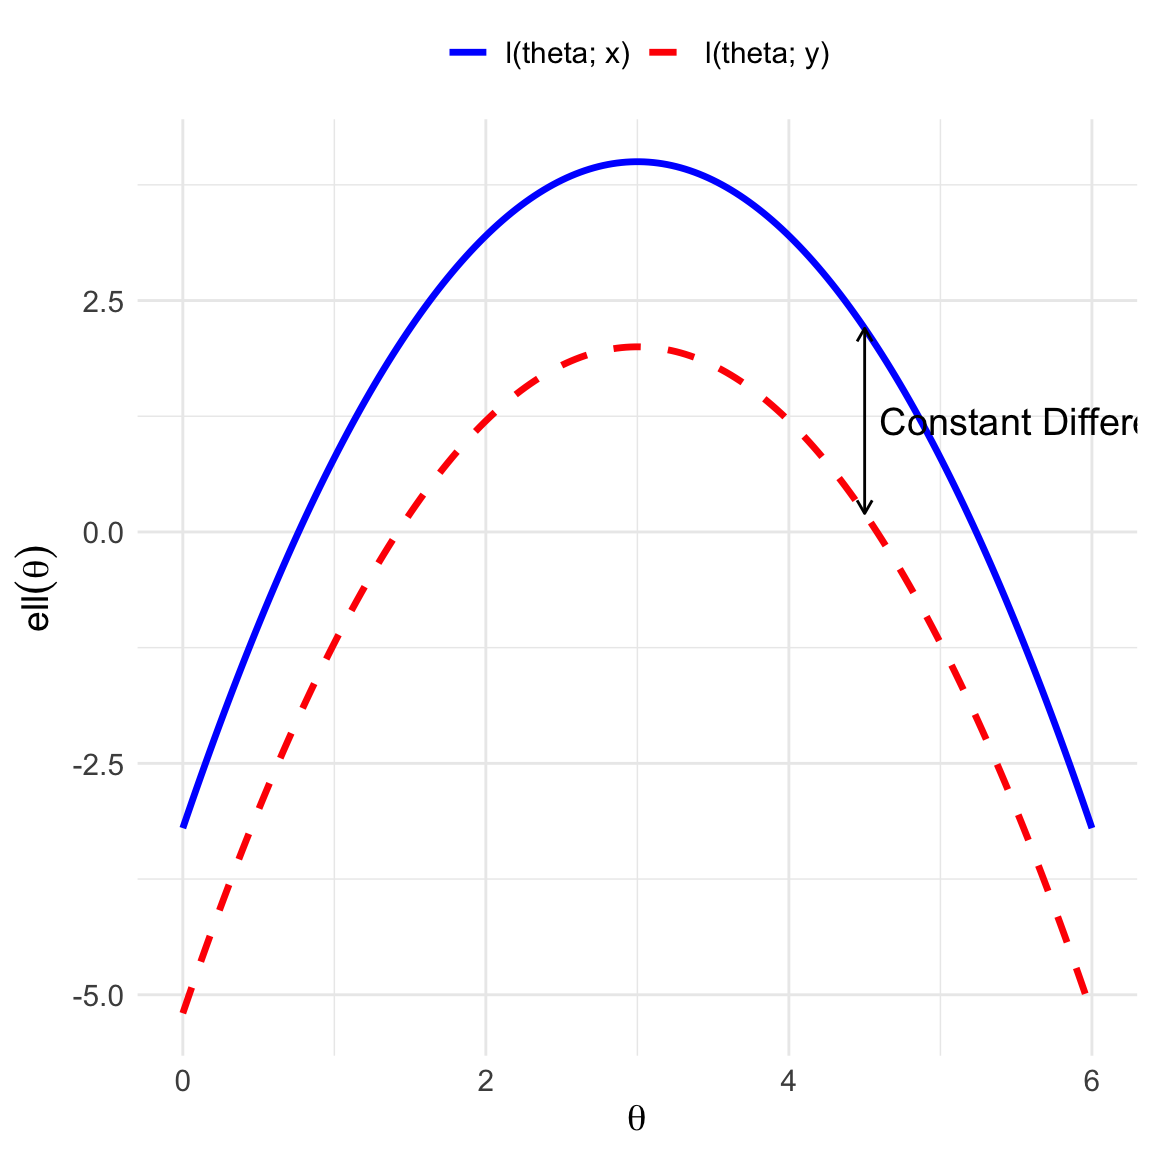
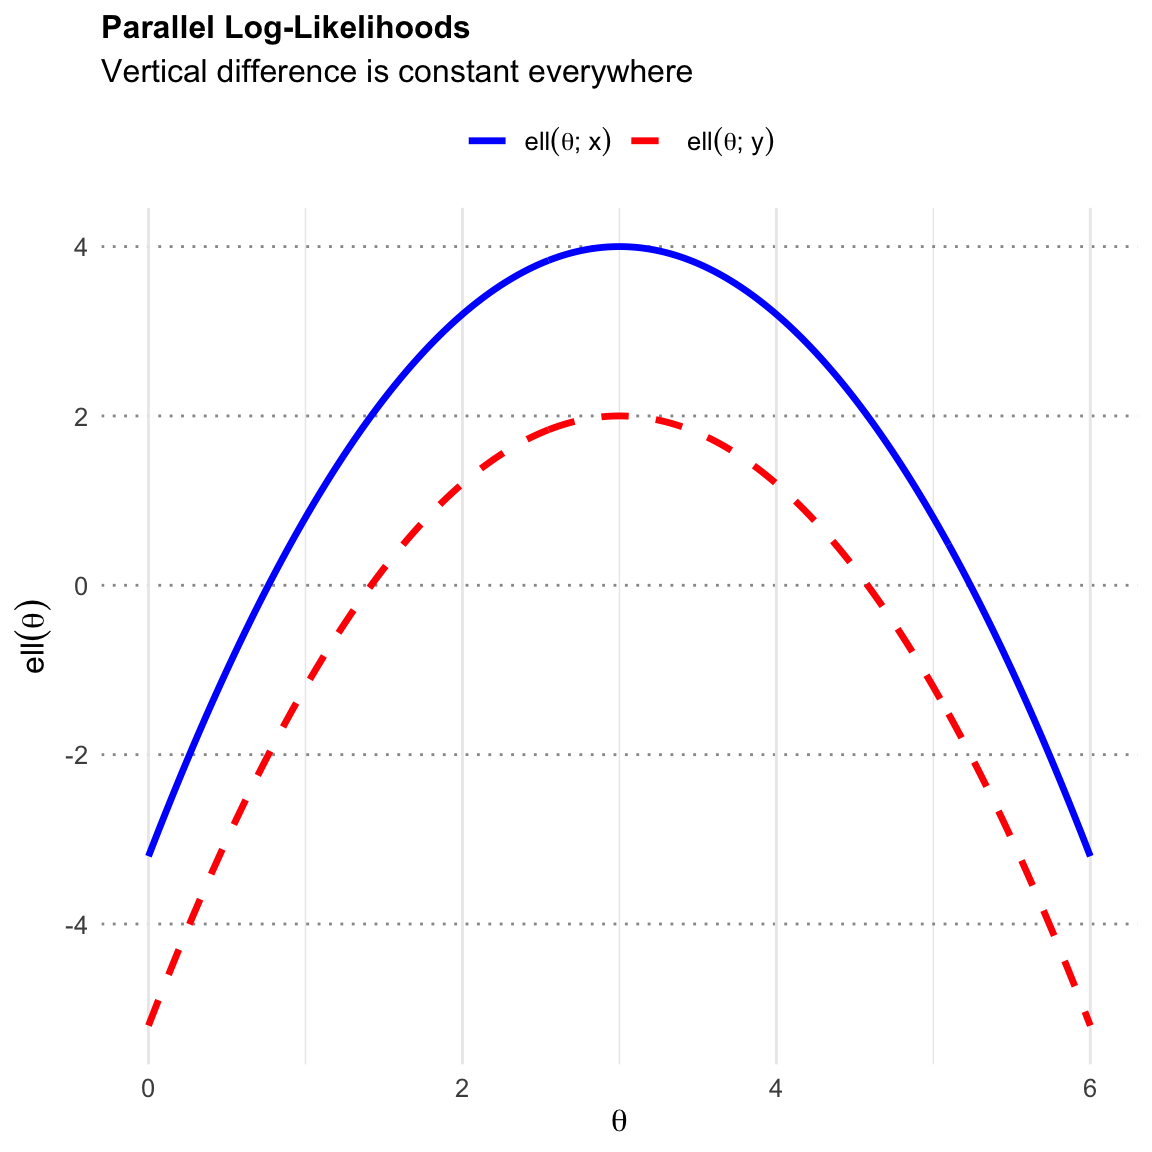
syn2GH from KNW5YYVTFD

diff --git a/teaching/stat850/mathstat/umvue.html b/teaching/stat850/mathstat/umvue.html
@@ -191,9 +191,10 @@ window.Quarto = {
   <ul>
   <li><a href="#sufficient-statistics" id="toc-sufficient-statistics" class="nav-link" data-scroll-target="#sufficient-statistics"><span class="header-section-number">6.1.1</span> Sufficient Statistics</a></li>
   </ul></li>
-  <li><a href="#completeness" id="toc-completeness" class="nav-link" data-scroll-target="#completeness"><span class="header-section-number">6.2</span> Completeness</a></li>
-  <li><a href="#umvue" id="toc-umvue" class="nav-link" data-scroll-target="#umvue"><span class="header-section-number">6.3</span> UMVUE</a></li>
-  <li><a href="#methods-for-finding-umvue" id="toc-methods-for-finding-umvue" class="nav-link" data-scroll-target="#methods-for-finding-umvue"><span class="header-section-number">6.4</span> Methods for Finding UMVUE</a></li>
+  <li><a href="#minimal-sufficient-statistic" id="toc-minimal-sufficient-statistic" class="nav-link" data-scroll-target="#minimal-sufficient-statistic"><span class="header-section-number">6.2</span> Minimal Sufficient Statistic</a></li>
+  <li><a href="#completeness" id="toc-completeness" class="nav-link" data-scroll-target="#completeness"><span class="header-section-number">6.3</span> Completeness</a></li>
+  <li><a href="#umvue" id="toc-umvue" class="nav-link" data-scroll-target="#umvue"><span class="header-section-number">6.4</span> UMVUE</a></li>
+  <li><a href="#methods-for-finding-umvue" id="toc-methods-for-finding-umvue" class="nav-link" data-scroll-target="#methods-for-finding-umvue"><span class="header-section-number">6.5</span> Methods for Finding UMVUE</a></li>
   </ul>
 </nav>
 </nav>
@@ -320,6 +321,10 @@ f(x|p) = p^x (1-p)^{1-x} = (1-p) \exp\left( x \ln\left(\frac{p}{1-p}\right) \rig
 \]</span></p>
 <p>Here, <span class="math inline">\(t(x) = x\)</span>. Therefore, <span class="math inline">\(T(X) = \sum_{i=1}^n X_i\)</span> is sufficient for <span class="math inline">\(p\)</span>.</p>
 </div>
+</section>
+</section>
+<section id="minimal-sufficient-statistic" class="level2" data-number="6.2">
+<h2 data-number="6.2" class="anchored" data-anchor-id="minimal-sufficient-statistic"><span class="header-section-number">6.2</span> Minimal Sufficient Statistic</h2>
 <div id="lem-loglik-equivalence" class="theorem lemma">
 <p><span class="theorem-title"><strong>Lemma 6.1 (Equivalence of Log-Likelihood Conditions)</strong></span> For any pair of data sets <span class="math inline">\(x\)</span> and <span class="math inline">\(y\)</span>, the following three conditions are equivalent descriptions of the relationship between their log-likelihood functions <span class="math inline">\(\ell(\theta; \cdot) = \ln L(\theta; \cdot)\)</span>:</p>
 <ol type="1">
@@ -328,53 +333,57 @@ f(x|p) = p^x (1-p)^{1-x} = (1-p) \exp\left( x \ln\left(\frac{p}{1-p}\right) \rig
 <li><p><strong>Equality of Log-Likelihood Differences:</strong> <span class="math display">\[\ell(\theta_2; x) - \ell(\theta_1; x) = \ell(\theta_2; y) - \ell(\theta_1; y) \quad \text{for all } \theta_1, \theta_2\]</span></p></li>
 </ol>
 </div>
+<div id="thm-mss-loglik" class="theorem">
+<p><span class="theorem-title"><strong>Theorem 6.1 (MSS Condition Theorem)</strong></span> Let <span class="math inline">\(T(X)\)</span> be a <strong>sufficient statistic</strong>. <span class="math inline">\(T(X)\)</span> is a <strong>Minimal Sufficient Statistic (MSS)</strong> if and only if for any pair of data sets <span class="math inline">\(x\)</span> and <span class="math inline">\(y\)</span>: <span class="math display">\[
+\ell(\theta; x) = \ell(\theta; y) + c(x, y) \text{ for all } \theta \implies T(x) = T(y)
+\]</span> where <span class="math inline">\(c(x, y)\)</span> is a constant independent of <span class="math inline">\(\theta\)</span>.</p>
+</div>
 <div class="proof">
-<p><span class="proof-title"><em>Proof</em>. </span><strong>Proof of Lemma</strong></p>
-<ul>
-<li><p><strong><span class="math inline">\((1) \iff (2)\)</span>:</strong> Rearranging (1) gives <span class="math inline">\(\ell(\theta; x) - \ell(\theta; y) = c(x, y)\)</span>. Since <span class="math inline">\(c(x,y)\)</span> does not depend on <span class="math inline">\(\theta\)</span>, the difference is constant in <span class="math inline">\(\theta\)</span>.</p></li>
-<li><p><strong><span class="math inline">\((1) \implies (3)\)</span>:</strong> Substitute <span class="math inline">\(\ell(\theta; x) = \ell(\theta; y) + c\)</span> into the LHS of (3): <span class="math display">\[[\ell(\theta_2; y) + c] - [\ell(\theta_1; y) + c] = \ell(\theta_2; y) - \ell(\theta_1; y)\]</span> This matches the RHS of (3).</p></li>
-<li><p><strong><span class="math inline">\((3) \implies (1)\)</span>:</strong> Fix <span class="math inline">\(\theta_1 = \theta_0\)</span> as a reference point. Rearrange (3): <span class="math display">\[\ell(\theta_2; x) - \ell(\theta_2; y) = \ell(\theta_0; x) - \ell(\theta_0; y)\]</span> Let <span class="math inline">\(c(x, y) = \ell(\theta_0; x) - \ell(\theta_0; y)\)</span>. Since <span class="math inline">\(\theta_0\)</span> is fixed, <span class="math inline">\(c(x, y)\)</span> is constant with respect to the varying <span class="math inline">\(\theta_2\)</span>. Thus, <span class="math inline">\(\ell(\theta; x) - \ell(\theta; y) = c(x, y)\)</span> for all <span class="math inline">\(\theta\)</span>.</p></li>
-</ul>
+<p><span class="proof-title"><em>Proof</em>. </span><strong>Direction 1: Necessity (<span class="math inline">\(T\)</span> is MSS <span class="math inline">\(\implies\)</span> Implication holds)</strong></p>
+<p>Assume <span class="math inline">\(T\)</span> is Minimal Sufficient. We must prove that if <span class="math inline">\(\ell(\theta; x) = \ell(\theta; y) + c(x, y)\)</span> for all <span class="math inline">\(\theta\)</span>, then <span class="math inline">\(T(x) = T(y)\)</span>.</p>
+<ol type="1">
+<li><p><strong>Define the Statistic <span class="math inline">\(S(x)\)</span>:</strong> Let <span class="math inline">\(S(x)\)</span> be the set of all possible datasets <span class="math inline">\(z\)</span> which give the same log-likelihood shape as <span class="math inline">\(x\)</span>: <span class="math display">\[
+S(x) = \{z \mid \ell(\theta; z) = \ell(\theta; x) + c_z \text{ for all } \theta \}
+\]</span> This statistic <span class="math inline">\(S(x)\)</span> represents the equivalence class of <span class="math inline">\(x\)</span> under the parallel log-likelihood relationship. If the condition <span class="math inline">\(\ell(\theta; x) = \ell(\theta; y) + c(x, y)\)</span> holds, then by definition <span class="math inline">\(x\)</span> and <span class="math inline">\(y\)</span> generate the same equivalence class, so <span class="math inline">\(S(x) = S(y)\)</span>.</p></li>
+<li><p><strong>Show <span class="math inline">\(S(x)\)</span> is Sufficient (Directly via Likelihood Ratio):</strong> To prove <span class="math inline">\(S\)</span> is sufficient, we check the <strong>Likelihood Ratio Condition</strong> (Condition 2 from Section 1.1). Suppose <span class="math inline">\(S(x) = S(y)\)</span>. By the definition of <span class="math inline">\(S\)</span>, this implies: <span class="math display">\[
+\ell(\theta; x) - \ell(\theta; y) = c(x, y)
+\]</span> Exponentiating both sides: <span class="math display">\[
+\frac{L(\theta; x)}{L(\theta; y)} = e^{c(x, y)}
+\]</span> The likelihood ratio is independent of <span class="math inline">\(\theta\)</span>. By the Likelihood Ratio definition of sufficiency, <span class="math inline">\(S(X)\)</span> is a sufficient statistic.</p></li>
+<li><p><strong>Use Minimality of <span class="math inline">\(T\)</span>:</strong> Since <span class="math inline">\(T\)</span> is a <strong>Minimal</strong> Sufficient Statistic, it is a function of <em>any</em> sufficient statistic. Therefore, <span class="math inline">\(T\)</span> must be a function of <span class="math inline">\(S\)</span>. That is, <span class="math inline">\(T(x) = f(S(x))\)</span>.</p></li>
+<li><p><strong>Conclusion:</strong> Assume <span class="math inline">\(\ell(\theta; x) = \ell(\theta; y) + c(x, y)\)</span>. Then <span class="math inline">\(S(x) = S(y)\)</span>. Consequently, <span class="math inline">\(T(x) = f(S(x)) = f(S(y)) = T(y)\)</span>.</p></li>
+</ol>
+<p><strong>Direction 2: Sufficiency (Implication holds <span class="math inline">\(\implies\)</span> <span class="math inline">\(T\)</span> is MSS)</strong></p>
+<p>Assume that for any <span class="math inline">\(x, y\)</span>, <span class="math inline">\([\ell(\theta; x) = \ell(\theta; y) + c(x, y)] \implies T(x) = T(y)\)</span>. We must show that <span class="math inline">\(T\)</span> is a function of <em>any</em> sufficient statistic <span class="math inline">\(U\)</span>.</p>
+<ol type="1">
+<li>Let <span class="math inline">\(U(X)\)</span> be any sufficient statistic. Assume <span class="math inline">\(U(x) = U(y)\)</span>.</li>
+<li>By the <strong>Factorization Theorem</strong>, the likelihoods are: <span class="math display">\[
+L(\theta; x) = h(x)g(U(x), \theta)
+\]</span> <span class="math display">\[
+L(\theta; y) = h(y)g(U(y), \theta)
+\]</span></li>
+<li>Since <span class="math inline">\(U(x) = U(y)\)</span>, the factor <span class="math inline">\(g(U(x), \theta)\)</span> is identical to <span class="math inline">\(g(U(y), \theta)\)</span>. Taking the log-ratio: <span class="math display">\[
+\ell(\theta; x) - \ell(\theta; y) = \ln h(x) - \ln h(y)
+\]</span> The term <span class="math inline">\(\ln h(x) - \ln h(y)\)</span> depends only on <span class="math inline">\(x\)</span> and <span class="math inline">\(y\)</span>, not on <span class="math inline">\(\theta\)</span>. Let this be <span class="math inline">\(c(x,y)\)</span>. <span class="math display">\[
+\ell(\theta; x) = \ell(\theta; y) + c(x, y)
+\]</span></li>
+<li>By our main assumption, this condition implies <span class="math inline">\(T(x) = T(y)\)</span>.</li>
+<li>Thus, we have shown that <span class="math inline">\(U(x) = U(y) \implies T(x) = T(y)\)</span>. This means <span class="math inline">\(T\)</span> is a function of <span class="math inline">\(U\)</span>. Since <span class="math inline">\(U\)</span> is arbitrary, <span class="math inline">\(T\)</span> is Minimal Sufficient.</li>
+</ol>
 </div>
 <div class="cell" data-layout-align="center">
 <div class="cell-output-display">
-<div id="fig-log-likelihood-homo" class="quarto-float quarto-figure quarto-figure-center anchored" data-fig-align="center">
+<div id="fig-log-likelihood" class="quarto-float quarto-figure quarto-figure-center anchored" data-fig-align="center">
 <figure class="quarto-float quarto-float-fig figure">
-<div aria-describedby="fig-log-likelihood-homo-caption-0ceaefa1-69ba-4598-a22c-09a6ac19f8ca">
-<img src="umvue_files/figure-html/fig-log-likelihood-homo-1.png" class="img-fluid quarto-figure quarto-figure-center figure-img" style="width:70.0%">
+<div aria-describedby="fig-log-likelihood-caption-0ceaefa1-69ba-4598-a22c-09a6ac19f8ca">
+<img src="umvue_files/figure-html/fig-log-likelihood-1.png" class="img-fluid quarto-figure quarto-figure-center figure-img" style="width:70.0%">
 </div>
-<figcaption class="quarto-float-caption-bottom quarto-float-caption quarto-float-fig" id="fig-log-likelihood-homo-caption-0ceaefa1-69ba-4598-a22c-09a6ac19f8ca">
-Figure&nbsp;6.1: Visualizing Parallel Log-Likelihoods (Gap = 1 Grid Unit)
+<figcaption class="quarto-float-caption-bottom quarto-float-caption quarto-float-fig" id="fig-log-likelihood-caption-0ceaefa1-69ba-4598-a22c-09a6ac19f8ca">
+Figure&nbsp;6.1: Visualizing Parallel Log-Likelihoods
 </figcaption>
 </figure>
 </div>
 </div>
-</div>
-<div id="thm-mss-loglik" class="theorem">
-<p><span class="theorem-title"><strong>Theorem 6.1 (MSS Condition Theorem)</strong></span> Let <span class="math inline">\(T(X)\)</span> be a <strong>sufficient statistic</strong>. <span class="math inline">\(T(X)\)</span> is a <strong>Minimal Sufficient Statistic (MSS)</strong> if and only if for any pair of data sets <span class="math inline">\(x\)</span> and <span class="math inline">\(y\)</span>: <span class="math display">\[
-\text{Log-Likelihoods are Parallel} \implies T(x) = T(y)
-\]</span> <em>(Note: “Log-Likelihoods are Parallel” refers to any of the equivalent conditions in <a href="#lem-loglik-equivalence" class="quarto-xref">Lemma&nbsp;<span>6.1</span></a>)</em>.</p>
-</div>
-<div class="proof">
-<p><span class="proof-title"><em>Proof</em>. </span><strong>Proof of Theorem</strong></p>
-<p>We denote the condition “Log-Likelihoods are Parallel” as <span class="math inline">\(\mathcal{P}(x, y)\)</span>.</p>
-<p><strong>Direction 1: Necessity (<span class="math inline">\(T\)</span> is MSS <span class="math inline">\(\implies\)</span> Implication holds)</strong></p>
-<p>Assume <span class="math inline">\(T(X)\)</span> is a Minimal Sufficient Statistic. We must prove that <span class="math inline">\(\mathcal{P}(x, y) \implies T(x) = T(y)\)</span>.</p>
-<ol type="1">
-<li><p><strong>Construct the Likelihood Shape Statistic <span class="math inline">\(T^*\)</span>:</strong> Let us define a statistic <span class="math inline">\(T^*(X)\)</span> that corresponds exactly to the shape of the log-likelihood. We define <span class="math inline">\(T^*(x)\)</span> as the set of all points <span class="math inline">\(z\)</span> such that <span class="math inline">\(\mathcal{P}(x, z)\)</span> holds (i.e., the equivalence class of <span class="math inline">\(x\)</span> under the parallel condition). By definition, <span class="math inline">\(\mathcal{P}(x, y) \iff T^*(x) = T^*(y)\)</span>. It is a known result that <span class="math inline">\(T^*(X)\)</span> is a sufficient statistic.</p></li>
-<li><p><strong>Use Definition of MSS:</strong> Since <span class="math inline">\(T(X)\)</span> is <strong>Minimal</strong> Sufficient, it must be a function of <em>any</em> other sufficient statistic. Therefore, <span class="math inline">\(T\)</span> is a function of <span class="math inline">\(T^*\)</span>. That is, there exists a function <span class="math inline">\(g\)</span> such that <span class="math inline">\(T(x) = g(T^*(x))\)</span>.</p></li>
-<li><p><strong>Conclusion:</strong> If <span class="math inline">\(\mathcal{P}(x, y)\)</span> holds, then <span class="math inline">\(T^*(x) = T^*(y)\)</span>. Applying <span class="math inline">\(g\)</span> to both sides: <span class="math inline">\(g(T^*(x)) = g(T^*(y))\)</span>. Substituting back: <span class="math inline">\(T(x) = T(y)\)</span>.</p></li>
-</ol>
-<p><strong>Direction 2: Sufficiency (Implication holds <span class="math inline">\(\implies\)</span> <span class="math inline">\(T\)</span> is MSS)</strong></p>
-<p>Assume that for all pairs <span class="math inline">\(x, y\)</span>, <span class="math inline">\(\mathcal{P}(x, y) \implies T(x) = T(y)\)</span>. We must prove that <span class="math inline">\(T\)</span> is Minimal Sufficient.</p>
-<p>To show <span class="math inline">\(T\)</span> is minimal, we must show that <span class="math inline">\(T\)</span> is a function of <strong>any</strong> sufficient statistic <span class="math inline">\(S(X)\)</span>. That is, we must show: <span class="math display">\[S(x) = S(y) \implies T(x) = T(y)\]</span></p>
-<ol type="1">
-<li><p><strong>Assume <span class="math inline">\(S\)</span> is Sufficient:</strong> Let <span class="math inline">\(S(X)\)</span> be an arbitrary sufficient statistic. Suppose we have two data points <span class="math inline">\(x\)</span> and <span class="math inline">\(y\)</span> such that <span class="math inline">\(S(x) = S(y)\)</span>.</p></li>
-<li><p><strong>Apply Factorization Theorem:</strong> Since <span class="math inline">\(S\)</span> is sufficient, the Factorization Theorem states: <span class="math display">\[L(\theta; x) = h(x)g(S(x); \theta)\]</span> The log-likelihood is: <span class="math display">\[\ell(\theta; x) = \ln h(x) + \ln g(S(x); \theta)\]</span></p></li>
-<li><p><strong>Check Parallel Condition:</strong> Consider the difference between the log-likelihoods of <span class="math inline">\(x\)</span> and <span class="math inline">\(y\)</span>: <span class="math display">\[\ell(\theta; x) - \ell(\theta; y) = [\ln h(x) + \ln g(S(x); \theta)] - [\ln h(y) + \ln g(S(y); \theta)]\]</span> Since <span class="math inline">\(S(x) = S(y)\)</span>, the terms involving <span class="math inline">\(g\)</span> are identical and cancel out: <span class="math display">\[\ell(\theta; x) - \ell(\theta; y) = \ln h(x) - \ln h(y)\]</span> This difference depends only on <span class="math inline">\(x\)</span> and <span class="math inline">\(y\)</span>, not on <span class="math inline">\(\theta\)</span>. Therefore, the condition <span class="math inline">\(\mathcal{P}(x, y)\)</span> is satisfied.</p></li>
-<li><p><strong>Use Main Assumption:</strong> We assumed at the start that <span class="math inline">\(\mathcal{P}(x, y) \implies T(x) = T(y)\)</span>. Since we just showed <span class="math inline">\(\mathcal{P}(x, y)\)</span> is true, it must be that <span class="math inline">\(T(x) = T(y)\)</span>.</p></li>
-<li><p><strong>Conclusion:</strong> We have shown that <span class="math inline">\(S(x) = S(y) \implies T(x) = T(y)\)</span>. This implies <span class="math inline">\(T\)</span> is a function of <span class="math inline">\(S\)</span>. Since <span class="math inline">\(S\)</span> was arbitrary, <span class="math inline">\(T\)</span> is a function of <em>every</em> sufficient statistic. Thus, <span class="math inline">\(T\)</span> is Minimal Sufficient.</p></li>
-</ol>
 </div>
 <div id="exm-poisson-mss-log" class="theorem example">
 <p><span class="theorem-title"><strong>Example 6.4 (Poisson Distribution (Log-Likelihood Approach))</strong></span> Let <span class="math inline">\(X_1, \dots, X_n \sim \text{Poisson}(\theta)\)</span>. To check if <span class="math inline">\(S(X) = (\sum X_i, X_1)\)</span> is minimal, we test the implication: <span class="math display">\[\text{Parallel Log-Likelihoods} \implies S(x) = S(y)\]</span></p>
@@ -382,9 +391,8 @@ Figure&nbsp;6.1: Visualizing Parallel Log-Likelihoods (Gap = 1 Grid Unit)
 <p><strong>2. Check Implication:</strong> Does <span class="math inline">\(\sum x_i = \sum y_i \implies (\sum x_i, x_1) = (\sum y_i, y_1)\)</span>? No.&nbsp;Consider <span class="math inline">\(x=(2,0)\)</span> and <span class="math inline">\(y=(1,1)\)</span>. Sum is equal (<span class="math inline">\(2=2\)</span>), so Log-Likelihoods are parallel. But <span class="math inline">\(S(x)=(2,2) \neq S(y)=(2,1)\)</span>. Thus, <span class="math inline">\(S(X)\)</span> is <strong>not</strong> minimal.</p>
 </div>
 </section>
-</section>
-<section id="completeness" class="level2" data-number="6.2">
-<h2 data-number="6.2" class="anchored" data-anchor-id="completeness"><span class="header-section-number">6.2</span> Completeness</h2>
+<section id="completeness" class="level2" data-number="6.3">
+<h2 data-number="6.3" class="anchored" data-anchor-id="completeness"><span class="header-section-number">6.3</span> Completeness</h2>
 <div id="def-completeness" class="theorem definition">
 <p><span class="theorem-title"><strong>Definition 6.2 (Complete Statistic)</strong></span> A statistic <span class="math inline">\(T\)</span> is said to be <strong>complete</strong> if for any real-valued function <span class="math inline">\(g\)</span>, <span class="math display">\[
 E[g(T)|\theta] = 0 \quad \text{for all } \theta
@@ -405,8 +413,8 @@ f(x) = \prod I(\theta-1 &lt; x_i &lt; \theta+1) = I(\theta \in (x_{(n)}-1, x_{(1
 <p><span class="theorem-title"><strong>Lemma 6.2 (Exponential Family Completeness)</strong></span> If <span class="math inline">\(T = (T_1, \dots, T_k)\)</span> is the natural statistic of an exponential family that contains an open rectangle in the parameter space, then <span class="math inline">\(T\)</span> is complete.</p>
 </div>
 </section>
-<section id="umvue" class="level2" data-number="6.3">
-<h2 data-number="6.3" class="anchored" data-anchor-id="umvue"><span class="header-section-number">6.3</span> UMVUE</h2>
+<section id="umvue" class="level2" data-number="6.4">
+<h2 data-number="6.4" class="anchored" data-anchor-id="umvue"><span class="header-section-number">6.4</span> UMVUE</h2>
 <div id="def-umvue" class="theorem definition">
 <p><span class="theorem-title"><strong>Definition 6.3 (Uniformly Minimum Variance Unbiased Estimator (UMVUE))</strong></span> A statistic <span class="math inline">\(T(x)\)</span> is a UMVUE for <span class="math inline">\(\theta\)</span> if:</p>
 <ol type="1">
@@ -455,8 +463,8 @@ Var(d_1(X)) = Var(g(T)) + E[(d_1(X) - g(T))^2 | T]
 </ol>
 </div>
 </section>
-<section id="methods-for-finding-umvue" class="level2" data-number="6.4">
-<h2 data-number="6.4" class="anchored" data-anchor-id="methods-for-finding-umvue"><span class="header-section-number">6.4</span> Methods for Finding UMVUE</h2>
+<section id="methods-for-finding-umvue" class="level2" data-number="6.5">
+<h2 data-number="6.5" class="anchored" data-anchor-id="methods-for-finding-umvue"><span class="header-section-number">6.5</span> Methods for Finding UMVUE</h2>
 <p>To find the UMVUE for a parameter <span class="math inline">\(\theta\)</span>:</p>
 <ol type="1">
 <li><p><strong>Find a Complete Sufficient Statistic:</strong> Identify <span class="math inline">\(T\)</span> which is complete and sufficient for <span class="math inline">\(\theta\)</span> (often using the Exponential Family properties).</p></li>
